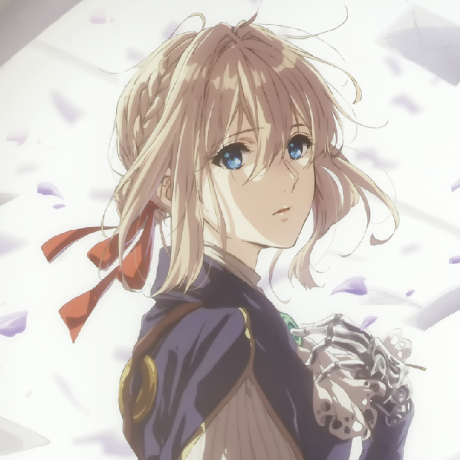
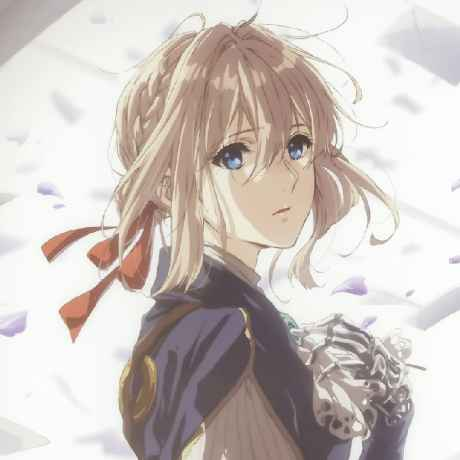
Site updated: 2024-06-06 10:31:30

diff --git a/2024/05/29/关于我/index.html b/2024/05/29/关于我/index.html
@@ -7,8 +7,8 @@
 
 <head>
   <meta charset="UTF-8">
-  <link rel="apple-touch-icon" sizes="76x76" href="/img/blog.jpeg">
-  <link rel="icon" href="/img/blog.jpeg">
+  <link rel="apple-touch-icon" sizes="76x76" href="/img/blog.png">
+  <link rel="icon" href="/img/blog.png">
   <meta name="viewport" content="width=device-width, initial-scale=1.0, maximum-scale=5.0, shrink-to-fit=no">
   <meta http-equiv="x-ua-compatible" content="ie=edge">
   

diff --git a/404.html b/404.html
@@ -7,8 +7,8 @@
 
 <head>
   <meta charset="UTF-8">
-  <link rel="apple-touch-icon" sizes="76x76" href="/img/blog.jpeg">
-  <link rel="icon" href="/img/blog.jpeg">
+  <link rel="apple-touch-icon" sizes="76x76" href="/img/blog.png">
+  <link rel="icon" href="/img/blog.png">
   <meta name="viewport" content="width=device-width, initial-scale=1.0, maximum-scale=5.0, shrink-to-fit=no">
   <meta http-equiv="x-ua-compatible" content="ie=edge">
   

diff --git a/about/index.html b/about/index.html
@@ -7,8 +7,8 @@
 
 <head>
   <meta charset="UTF-8">
-  <link rel="apple-touch-icon" sizes="76x76" href="/img/blog.jpeg">
-  <link rel="icon" href="/img/blog.jpeg">
+  <link rel="apple-touch-icon" sizes="76x76" href="/img/blog.png">
+  <link rel="icon" href="/img/blog.png">
   <meta name="viewport" content="width=device-width, initial-scale=1.0, maximum-scale=5.0, shrink-to-fit=no">
   <meta http-equiv="x-ua-compatible" content="ie=edge">
   

diff --git a/archives/2024/05/index.html b/archives/2024/05/index.html
@@ -7,8 +7,8 @@
 
 <head>
   <meta charset="UTF-8">
-  <link rel="apple-touch-icon" sizes="76x76" href="/img/blog.jpeg">
-  <link rel="icon" href="/img/blog.jpeg">
+  <link rel="apple-touch-icon" sizes="76x76" href="/img/blog.png">
+  <link rel="icon" href="/img/blog.png">
   <meta name="viewport" content="width=device-width, initial-scale=1.0, maximum-scale=5.0, shrink-to-fit=no">
   <meta http-equiv="x-ua-compatible" content="ie=edge">
   

diff --git a/archives/2024/index.html b/archives/2024/index.html
@@ -7,8 +7,8 @@
 
 <head>
   <meta charset="UTF-8">
-  <link rel="apple-touch-icon" sizes="76x76" href="/img/blog.jpeg">
-  <link rel="icon" href="/img/blog.jpeg">
+  <link rel="apple-touch-icon" sizes="76x76" href="/img/blog.png">
+  <link rel="icon" href="/img/blog.png">
   <meta name="viewport" content="width=device-width, initial-scale=1.0, maximum-scale=5.0, shrink-to-fit=no">
   <meta http-equiv="x-ua-compatible" content="ie=edge">
   

diff --git a/archives/index.html b/archives/index.html
@@ -7,8 +7,8 @@
 
 <head>
   <meta charset="UTF-8">
-  <link rel="apple-touch-icon" sizes="76x76" href="/img/blog.jpeg">
-  <link rel="icon" href="/img/blog.jpeg">
+  <link rel="apple-touch-icon" sizes="76x76" href="/img/blog.png">
+  <link rel="icon" href="/img/blog.png">
   <meta name="viewport" content="width=device-width, initial-scale=1.0, maximum-scale=5.0, shrink-to-fit=no">
   <meta http-equiv="x-ua-compatible" content="ie=edge">
   

diff --git a/categories/index.html b/categories/index.html
@@ -7,8 +7,8 @@
 
 <head>
   <meta charset="UTF-8">
-  <link rel="apple-touch-icon" sizes="76x76" href="/img/blog.jpeg">
-  <link rel="icon" href="/img/blog.jpeg">
+  <link rel="apple-touch-icon" sizes="76x76" href="/img/blog.png">
+  <link rel="icon" href="/img/blog.png">
   <meta name="viewport" content="width=device-width, initial-scale=1.0, maximum-scale=5.0, shrink-to-fit=no">
   <meta http-equiv="x-ua-compatible" content="ie=edge">
   

diff --git a/index.html b/index.html
@@ -7,8 +7,8 @@
 
 <head>
   <meta charset="UTF-8">
-  <link rel="apple-touch-icon" sizes="76x76" href="/img/blog.jpeg">
-  <link rel="icon" href="/img/blog.jpeg">
+  <link rel="apple-touch-icon" sizes="76x76" href="/img/blog.png">
+  <link rel="icon" href="/img/blog.png">
   <meta name="viewport" content="width=device-width, initial-scale=1.0, maximum-scale=5.0, shrink-to-fit=no">
   <meta http-equiv="x-ua-compatible" content="ie=edge">
   

diff --git a/links/index.html b/links/index.html
@@ -7,8 +7,8 @@
 
 <head>
   <meta charset="UTF-8">
-  <link rel="apple-touch-icon" sizes="76x76" href="/img/blog.jpeg">
-  <link rel="icon" href="/img/blog.jpeg">
+  <link rel="apple-touch-icon" sizes="76x76" href="/img/blog.png">
+  <link rel="icon" href="/img/blog.png">
   <meta name="viewport" content="width=device-width, initial-scale=1.0, maximum-scale=5.0, shrink-to-fit=no">
   <meta http-equiv="x-ua-compatible" content="ie=edge">
   

diff --git a/tags/index.html b/tags/index.html
@@ -7,8 +7,8 @@
 
 <head>
   <meta charset="UTF-8">
-  <link rel="apple-touch-icon" sizes="76x76" href="/img/blog.jpeg">
-  <link rel="icon" href="/img/blog.jpeg">
+  <link rel="apple-touch-icon" sizes="76x76" href="/img/blog.png">
+  <link rel="icon" href="/img/blog.png">
   <meta name="viewport" content="width=device-width, initial-scale=1.0, maximum-scale=5.0, shrink-to-fit=no">
   <meta http-equiv="x-ua-compatible" content="ie=edge">
   
